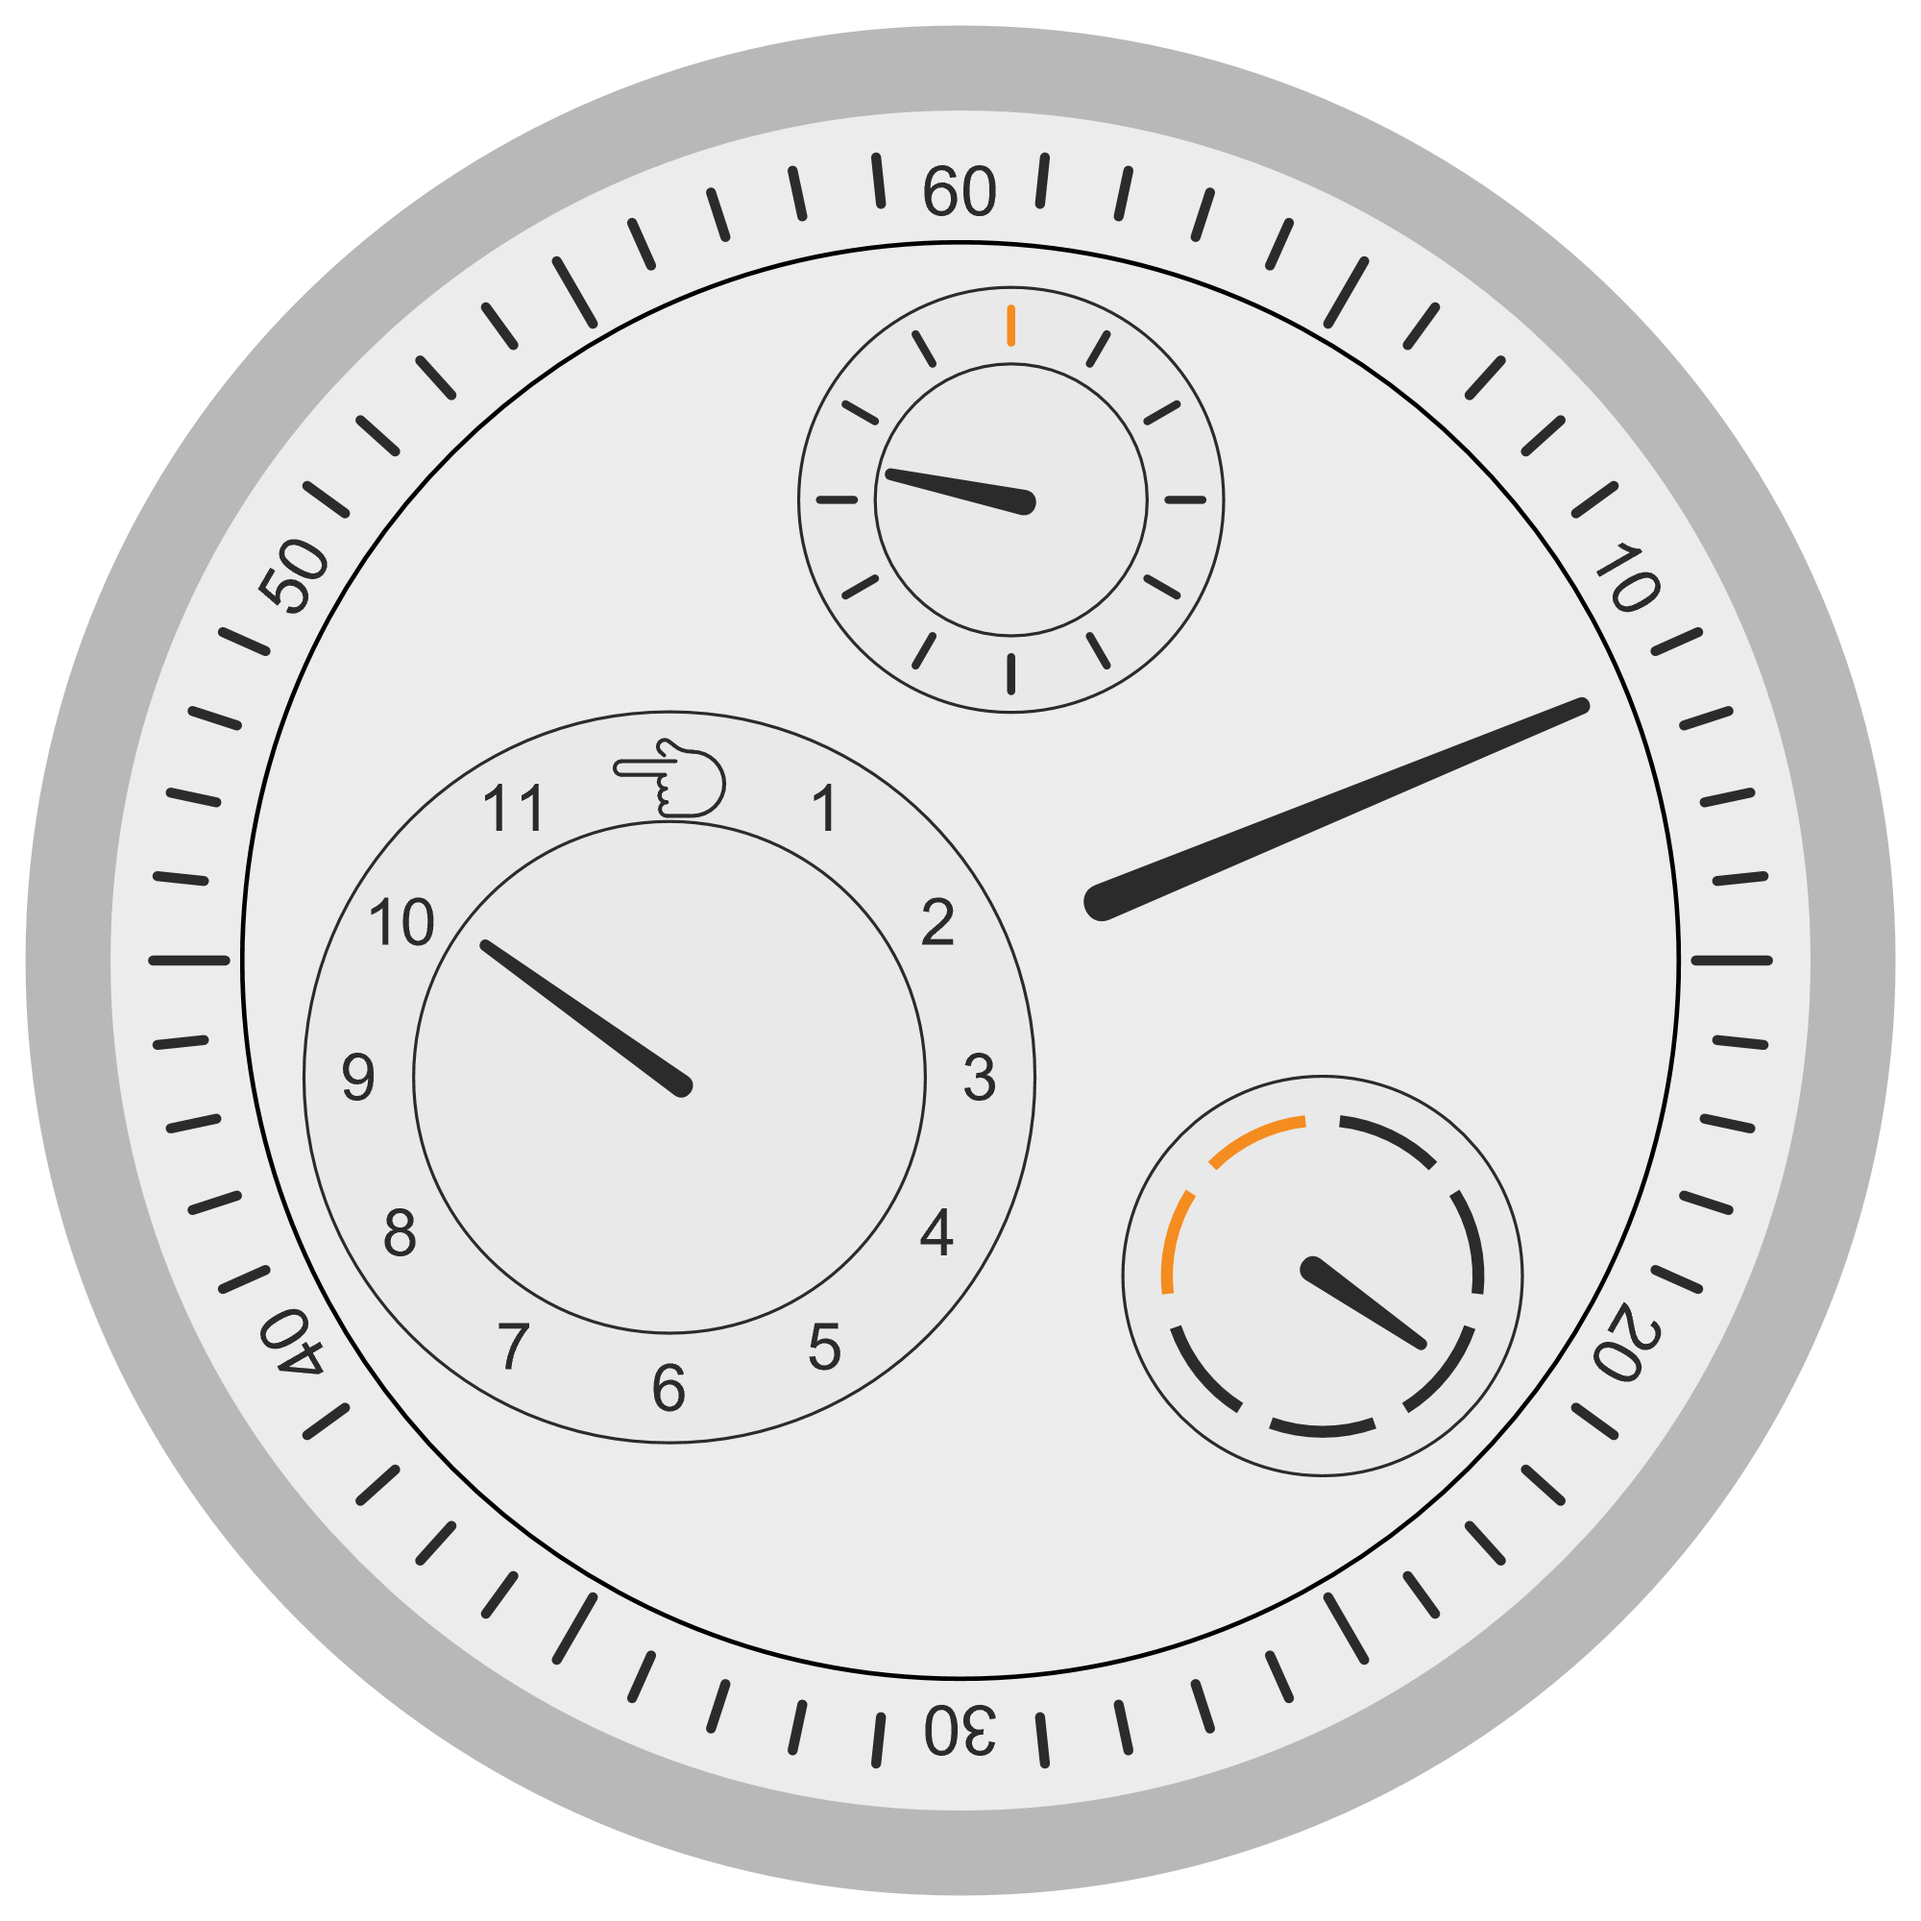
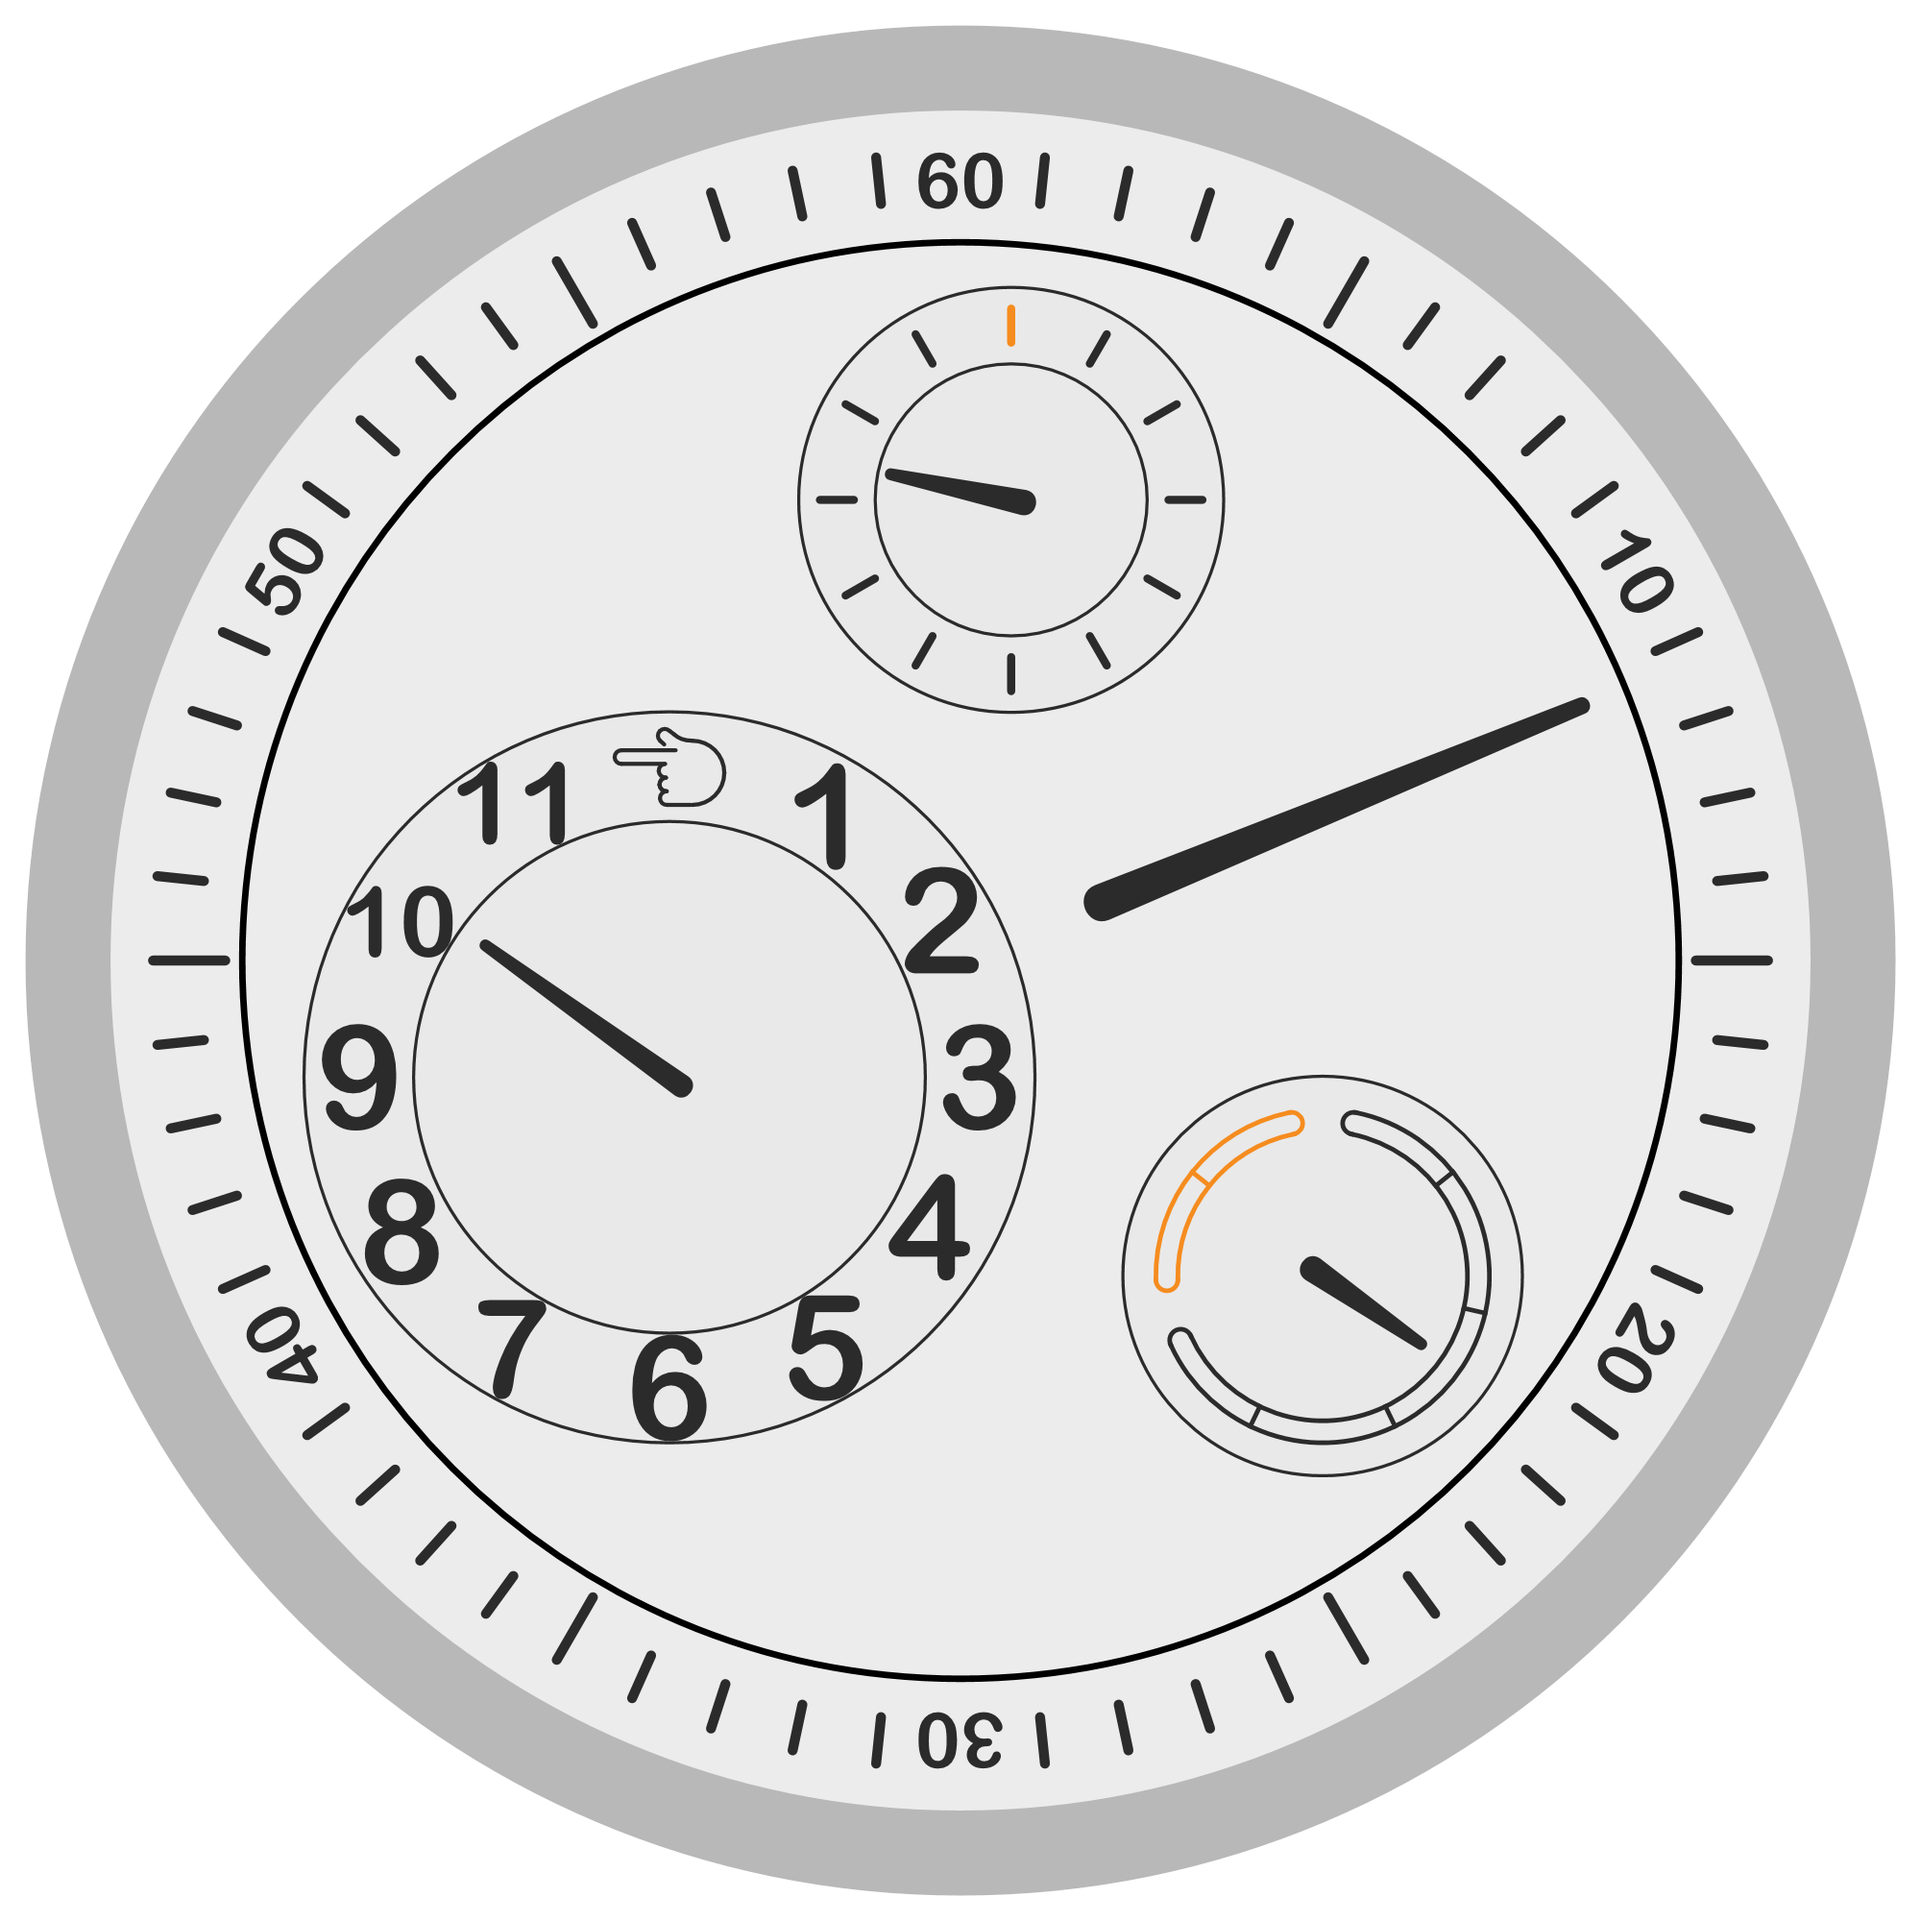
Use Arial Rounded numerals, hollow-tube day dial and refresh images
- Numerals on both rings are Arial Rounded MT Bold outlines, read from
  the installed font at run time (not embedded, as it is commercial);
  the embedded Ostrich Sans digits are removed.
- Day dial: two hollow tubes (Mon-Fri in ink, Sat-Sun in orange) with
  small dividers marking each day.
- Hour dial emoji sits between the two rings with a 5% heavier stroke;
  ring boundary lines are 2% thicker.
- Regenerate ressence_face.png and ressence_rocs.gif.

diff --git a/README.md b/README.md
@@ -1,6 +1,6 @@
 # RessenWatch
 
-A light-dial Ressence Type 1–style watch face in Wolfram Language, drawn entirely with vector graphics primitives (numerals included, as Ostrich Sans glyph outlines), with sub-dials that orbit like planetary gears. Hands are slightly tapered, and a thin black line separates the fixed minute ring from the rotating disc.
+A light-dial Ressence Type 1–style watch face in Wolfram Language, drawn entirely with vector graphics primitives (numerals included, as glyph outlines), with sub-dials that orbit like planetary gears. Hands are slightly tapered, and a thin black line separates the fixed minute ring from the rotating disc.
 
 ![ROCS animation](ressence_rocs.gif)
 
@@ -12,7 +12,7 @@ Ressence watches use the ROCS (Ressence Orbital Convex System): there are no cen
 - **Satellites:** the hour, seconds and day-of-week dials are mounted on the disc. They orbit with it, but they're counter-geared so the rings never spin: numerals and ticks stay upright, and only the hand inside each one turns.
 - **Hour dial:** upright numerals 1–11, each as large as fits between the ring's two circles, with the OpenMoji 👈 emoji at 12; the hand turns on the inner disc.
 - **Seconds dial:** 12 ticks between two rings, with the 12 o'clock tick in orange.
-- **Day dial:** 7 arcs for Monday–Sunday, clockwise from 12 o'clock, with Saturday and Sunday in orange. The hand moves through the current day's arc over the day.
+- **Day dial:** two hollow tubes, Monday–Friday and (in orange) Saturday–Sunday, clockwise from 12 o'clock, each day taking a seventh of the turn and marked off by small dividers. The hand moves through the current day's arc over the day.
 
 ## Usage
 
@@ -39,6 +39,6 @@ Or open `RessenceWatch.nb`, which loads the package and runs the examples.
 
 The hand at 12 on the hour dial is [OpenMoji 1F448 "backhand index pointing left"](https://openmoji.org/library/emoji-1F448/) by the [OpenMoji](https://openmoji.org/) project, licensed under [CC BY-SA 4.0](https://creativecommons.org/licenses/by-sa/4.0/). Its SVG paths were converted into Wolfram primitives (`openmojiPointLeft` in `RessenceWatch.wl`); that adapted drawing is shared under the same licence.
 
-The numerals are set in [Ostrich Sans](https://www.1001fonts.com/ostrich-sans-font.html) Medium by Tyler Finck (Copyright (c) 2011 by Tyler Finck), licensed under the [SIL Open Font License 1.1](https://openfontlicense.org). The outlines of the digits 0–9 are embedded in `RessenceWatch.wl` as `ostrichDigits`, so the font does not need to be installed.
+The numerals use Arial Rounded MT Bold, a commercial Monotype font that is not included here. Its outlines are read from the installed font at run time; without it, the front end substitutes another font.
 
 Inspired by the Ressence Type 1. This is an unofficial fan project, not affiliated with Ressence.
